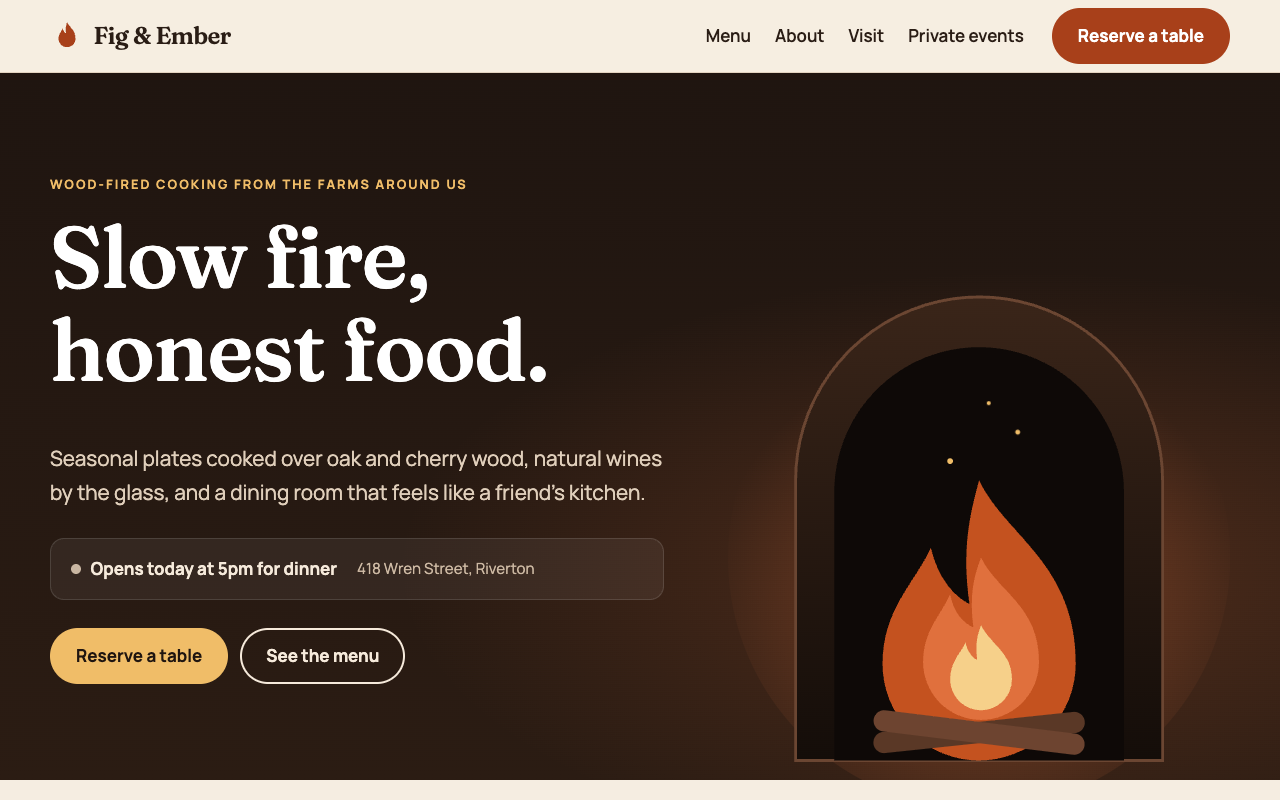
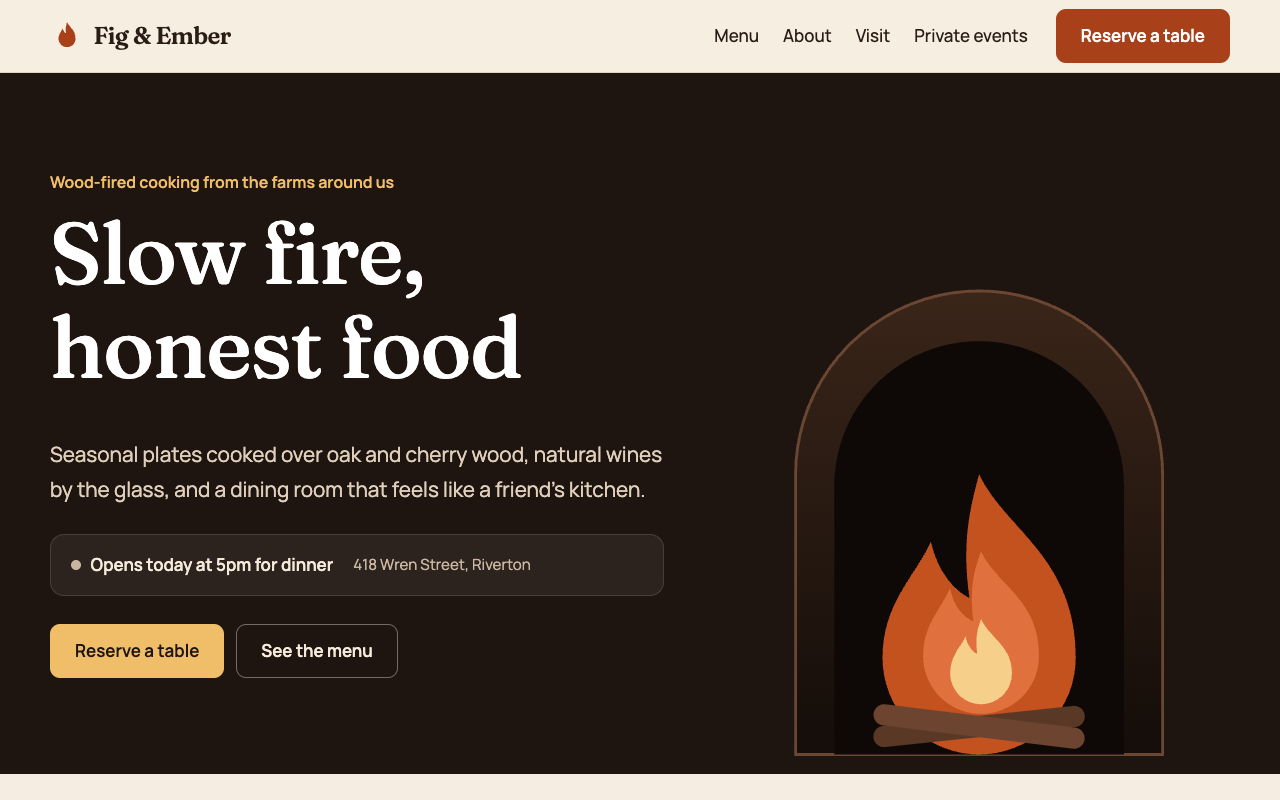
Unslop pass: sentence-case labels, no glows or looping flames, quieter buttons and captions

diff --git a/src/styles/global.css b/src/styles/global.css
@@ -15,7 +15,8 @@
   --font-display: "Fraunces Variable", Georgia, serif;
   --font-body: "Manrope Variable", system-ui, sans-serif;
 
-  --radius: 18px;
+  --radius: 14px;
+  --ease: cubic-bezier(0.22, 1, 0.36, 1);
   --wrap: 1180px;
   --gutter: clamp(16px, 4vw, 40px);
 }
@@ -51,7 +52,7 @@ h1,
 h2,
 h3 {
   font-family: var(--font-display);
-  font-weight: 560;
+  font-weight: 500;
   line-height: 1.08;
   letter-spacing: -0.015em;
   margin: 0 0 0.5em;
@@ -68,6 +69,7 @@ h2 {
 
 h3 {
   font-size: 1.35rem;
+  letter-spacing: 0;
 }
 
 p {
@@ -95,13 +97,11 @@ a {
 }
 
 .eyebrow {
-  display: inline-block;
-  font-size: 0.8rem;
-  font-weight: 700;
-  letter-spacing: 0.16em;
-  text-transform: uppercase;
+  display: block;
+  font-size: 1rem;
+  font-weight: 600;
   color: var(--ember);
-  margin-bottom: 1rem;
+  margin-bottom: 0.75rem;
 }
 
 .lede {
@@ -117,20 +117,21 @@ a {
   gap: 0.5rem;
   min-height: 48px;
   padding: 0.75rem 1.5rem;
-  border-radius: 999px;
-  border: 2px solid transparent;
+  border-radius: 10px;
+  border: 1.5px solid transparent;
   font: inherit;
-  font-weight: 700;
+  font-weight: 600;
   text-decoration: none;
   cursor: pointer;
   transition:
-    transform 0.2s ease,
-    background-color 0.2s ease,
-    color 0.2s ease;
+    transform 0.16s var(--ease),
+    background-color 0.16s var(--ease),
+    border-color 0.16s var(--ease),
+    color 0.16s var(--ease);
 }
 
-.btn:hover {
-  transform: translateY(-2px);
+.btn:active {
+  transform: scale(0.98);
 }
 
 .btn-primary {
@@ -152,9 +153,13 @@ a {
 }
 
 .btn-ghost {
-  border-color: currentColor;
+  border-color: color-mix(in srgb, currentColor 40%, transparent);
   color: inherit;
   background: transparent;
+}
+
+.btn-ghost:hover {
+  border-color: currentColor;
 }
 
 .skip {

diff --git a/src/data/site.ts b/src/data/site.ts
@@ -56,7 +56,7 @@ export const hours: Day[] = [
 ];
 
 export const home = {
-  heroTitle: "Slow fire, honest food.",
+  heroTitle: "Slow fire, honest food",
   heroText:
     "Seasonal plates cooked over oak and cherry wood, natural wines by the glass, and a dining room that feels like a friend's kitchen.",
   highlights: [

diff --git a/UNSLOP.md b/UNSLOP.md
@@ -1,0 +1,41 @@
+# Unslop pass
+
+Done with the unslop skill (by Damir Sokolovsky, @heydamir, CC BY 4.0), 24 November 2026.
+
+## Audit
+
+Slop level: light. The template already had its own world (hearth, ember, olive, Fraunces and Manrope), so this was polish mode.
+
+- Uppercase tracked eyebrow labels on every section and page hero (`.eyebrow` in `global.css`), footer headings, hours table header
+- Radial color wash behind the home hero and every page hero (`index.astro`, `PageHero.astro`)
+- Radial glow circle behind the hearth illustration (`HeroArt.astro`)
+- Looping motion: flames flickering forever and sparks rising on a loop (`HeroArt.astro`)
+- Buttons lifting 2px on hover, every button a full pill at weight 700 (`global.css`)
+- Uppercase "TODAY" pill badge in the hours table (`HoursTable.astro`)
+- Glow halo on the open-now dot (`HoursToday.astro`)
+- Italic for emphasis on the chef quote (home and About) and the menu section note
+- Heavy weights: dietary tags at 800, numbers, labels and hours at 700
+- Zero-padded numbering "01 02 03" on the highlights
+- Gallery captions as dark pills floating over each picture
+- Trailing period on the hero headline ("Slow fire, honest food.")
+- Pill shaped menu jump links and map label
+
+## Direction
+
+- Product: the site of a wood-fired neighborhood restaurant, so people can see the menu, check tonight's hours and book a table
+- Character: smoky, generous, unhurried
+- World: an oak hearth at night, linen, a printed menu card with prices down the right edge
+- Moments: the hearth illustration in the hero, and the menu itself with its dotted leaders and ember prices
+- Signature: the dotted leader running from each dish to its price, on the home page and the menu
+
+## What changed
+
+- Spacing: the highlights band was 120px above and below three short lines; now 48 to 80
+- Color: radial washes and the glow removed; heroes sit on the flat night brown with a hairline; open-now dot uses the toned positive green without a halo
+- Copy: no period on the hero headline; "today" in the hours table is quiet ember text instead of a badge
+- Type: eyebrows, footer headings and table headers in sentence case at normal tracking; headings at 500; buttons and labels at 600 at most; no italic anywhere
+- Details: buttons at a 10px radius with a quieter outline for the secondary; jump links, tags and the map label at 6 to 8px; plain numbers 1, 2, 3; gallery captions as muted text under each picture
+- Motion: flames and sparks no longer loop; buttons change color on hover and press down slightly; one easing curve
+
+screenshot-2: Menu page
+screenshot-3: Home, the chef section
